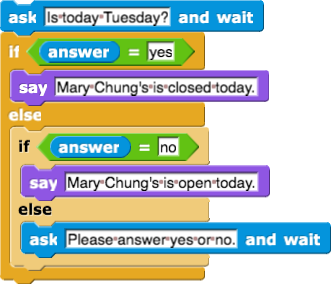
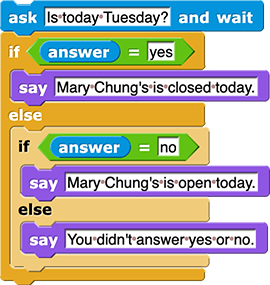
U2 - resolving comments and pacing with Brian

diff --git a/cur/teaching-guide/U2/lab-pages/5-copyrights.html b/cur/teaching-guide/U2/lab-pages/5-copyrights.html
@@ -9,15 +9,16 @@
 
 	<body>
         <h2>Lab 5: Copyrights</h2>
-        <div class="todo">Do we need this commented out text? --MF, 5/27/20</div>
- <!--       <p>Software patents are controversial. In the US, software was generally not patentable until a 1981 Supreme Court decision. Students explore what it means to invent something, and why software might or might not be considered differently from machinery. The simultaneous invention of the telephone by several people is used as an example to debunk the apple-on-head, flash-of-insight myth.</p>   -->
+        <div class="todo">
+            <p>Brian wants to reintegrate this as a new lab one day (maybe an optional lab). --MF, 5/31/20</p>
+            <p>Software patents are controversial. In the US, software was generally not patentable until a 1981 Supreme Court decision. Students explore what it means to invent something, and why software might or might not be considered differently from machinery. The simultaneous invention of the telephone by several people is used as an example to debunk the apple-on-head, flash-of-insight myth.</p>
+        </div>
         <p>The digital storage of information makes the marginal cost of a perfect copy zero. In principle, that shouldn't affect the rights of artists, but in practice, many people feel free to copy media both for their own use and to give to friends. When classes are polled on this topic, most or all hands go up  for both "who thinks it's wrong to pirate music or movies" and for "who has pirated music or movies?" This is a springboard into a class discussion of how laws have changed, how artists should be supported, and the use of encryption to enforce copyright.</p>
         <p>It's really important to understand that what's called &quot;copyright&quot; is <em>not</em> a <em>right,</em> like freedom of speech, or even like owning your house. On page 3 of this lab, students read the relevant paragraph from the US Constitution. which makes it clear that copyright has a <em>limited duration, </em>after which the work is supposed to enter the public domain, free for everyone to use. For this reason, we bend over backward not to use the tendentious term &quot;intellectual property,&quot; which suggests a property right. like the right to keep your house or your car.</p>
         <p>It's also really important not to turn this topic into a hectoring of students. &quot;Stop downloading movies illegally!&quot;  We want students to feel empowered as moral agents, not just empowered as programmers.</p> 
 
 
 		<h3>Pacing</h3>
-		<div class="todo">Brian, are all of the pages required in this lab? In this unit? In U1? We have very few skippable pages at this point... --MF, 5/31/20</div>
         <div>
 			The 5 lab pages could be split across 2-3 days (50-100 minutes). Expected times to complete follow:
 			<ul>
@@ -28,19 +29,6 @@
 				<li>15-30 minutes (&lt;1 class period) on <a href="/bjc-r/cur/programming/2-complexity/5-copyrights/5-drm.html?topic=nyc_bjc%2F2-conditionals-abstraction.topic&course=bjc4nyc.html&novideo&noassignment" title="Page 5: Software as Copyright Enforcement">Software as Copyright Enforcement</a></li>
 			</ul>
 		</div>
-        
-        <div class="todo">
-		<div>
-            The 5 lab pages could be split across 2-3 days (<strong>60-120 minutes</strong>). Expected times to complete follow:
-			<ul>
-            	<li>15-30 minutes (&lt;1 class period) on <a href="/bjc-r/cur/programming/2-complexity/5-copyrights/1-copyright.html?topic=nyc_bjc%2F2-conditionals-abstraction.topic&course=bjc4nyc.html&novideo&noassignment" title="Copyright">Copyright</a></li>
-				<li>10-20 minutes (&lt;1 class period) on <a href="/bjc-r/cur/programming/2-complexity/5-copyrights/2-fairuse.html?topic=nyc_bjc%2F2-conditionals-abstraction.topic&course=bjc4nyc.html&novideo&noassignment" title="Fair Use">Fair Use</a></li>
-				<li>5-10 minutes (&lt;1 class period) on <a href="/bjc-r/cur/programming/2-complexity/5-copyrights/3-bargain.html?topic=nyc_bjc%2F2-conditionals-abstraction.topic&course=bjc4nyc.html&novideo&noassignment" title="The Social Bargain">The Social Bargain</a></li>
-				<li>15-30 minutes (&lt;1 class period) on <a href="/bjc-r/cur/programming/2-complexity/5-copyrights/4-digital.html?topic=nyc_bjc%2F2-conditionals-abstraction.topic&course=bjc4nyc.html&novideo&noassignment" title="Copyrights and Computers">Copyrights and Computers</a></li>
-				<li>15-30 minutes (&lt;1 class period) on <a href="/bjc-r/cur/programming/2-complexity/5-copyrights/5-drm.html?topic=nyc_bjc%2F2-conditionals-abstraction.topic&course=bjc4nyc.html&novideo&noassignment" title="Software as Copyright Enforcement">Software as Copyright Enforcement</a></li>
-			</ul>
-        </div>
-        </div>
               
         
         <h3>Prepare</h3>

diff --git a/cur/teaching-guide/U2/lab-pages/3-predicates-game.html b/cur/teaching-guide/U2/lab-pages/3-predicates-game.html
@@ -23,40 +23,17 @@
         
         
 		<h3>Pacing</h3>
-		<div class="todo">BRian, these new estimates are way shorter than before. I know we have changed things, but still, please look closely. Am I crazy? --MF, 5/31/20</div>
         <div>
-			The 6 lab pages could be split across 3-6 days (130-260 minutes). Expected times to complete follow:
+			The 6 lab pages could be split across 4-7 days (140-280 minutes). Expected times to complete follow:
 			<ul>
 				<li>15-30 minutes (&lt;1 class period) on <a href="/bjc-r/cur/programming/2-complexity/3-predicates/1-what-is-predicate.html?topic=nyc_bjc%2F2-conditionals-abstraction.topic&course=bjc4nyc.html&novideo&noassignment" title="Page 1: What's a Predicate?">What's a Predicate?</a></li>
 				<li>25-50 minutes (about 1 class period) on <a href="/bjc-r/cur/programming/2-complexity/3-predicates/2-combining-predicates.html?topic=nyc_bjc%2F2-conditionals-abstraction.topic&course=bjc4nyc.html&novideo&noassignment" title="Page 2: Combining Predicates">Combining Predicates</a></li>
 				<li>20-40 minutes (&lt;1 class period) on <a href="/bjc-r/cur/programming/2-complexity/3-predicates/3-combining-conditionals.html?topic=nyc_bjc%2F2-conditionals-abstraction.topic&course=bjc4nyc.html&novideo&noassignment" title="Page 3: Combining Conditionals">Combining Conditionals</a></li>
-				<li>30-60 minutes (about 1 class period) on <a href="/bjc-r/cur/programming/2-complexity/3-predicates/4-boolean-experiments.html?topic=nyc_bjc%2F2-conditionals-abstraction.topic&course=bjc4nyc.html&novideo&noassignment" title="Page 4: Boolean Expression Experiments">Boolean Expression Experiments</a></li>
+				<li>40-80 minutes (about 1 class period) on <a href="/bjc-r/cur/programming/2-complexity/3-predicates/4-boolean-experiments.html?topic=nyc_bjc%2F2-conditionals-abstraction.topic&course=bjc4nyc.html&novideo&noassignment" title="Page 4: Boolean Expression Experiments">Boolean Expression Experiments</a></li>
 				<li>15-30 minutes (&lt;1 class period) on <a href="/bjc-r/cur/programming/2-complexity/3-predicates/5-keeping-list-items.html?topic=nyc_bjc%2F2-conditionals-abstraction.topic&course=bjc4nyc.html&novideo&noassignment" title="Page 5: Keeping Items from a List"><code>Keep</code>ing Items from a List</a></li>
 				<li>25-50 minutes (about 1 class period) on <a href="/bjc-r/cur/programming/2-complexity/3-predicates/6-solving-word-puzzle.html?topic=nyc_bjc%2F2-conditionals-abstraction.topic&course=bjc4nyc.html&novideo&noassignment" title="Page 6: Solving a Word Puzzle">Solving a Word Puzzle</a></li>
 			</ul>
 		</div>
-        
-        <div class="todo">
-		<div>
-			The 5 lab pages could be split across 4-8 days (<strong>165-330 minutes</strong>). Expected times to complete follow:
-			<ul>
-				<li>40-80 minutes (1-2 class periods) on <a href="/bjc-r/cur/programming/2-complexity/3-predicates/1-what-is-predicate.html?topic=nyc_bjc%2F2-conditionals-abstraction.topic&course=bjc4nyc.html&novideo&noassignment" title="What's a Predicate?">What's a Predicate?</a></li>
-				<li>40-80 minutes (1-2 class periods) on <a href="/bjc-r/cur/programming/2-complexity/3-predicates/2-combining-predicates.html?topic=nyc_bjc%2F2-conditionals-abstraction.topic&course=bjc4nyc.html&novideo&noassignment" title="Combining Predicates">Combining Predicates</a></li>
-				<li>?? minutes (1-2 class periods) on Combining Conditionals</li>
-			  <li>25-50 minutes (about 1 class period) on <a href="/bjc-r/cur/programming/2-complexity/3-predicates/4-boolean-experiments.html?topic=nyc_bjc%2F2-conditionals-abstraction.topic&course=bjc4nyc.html&novideo&noassignment" title="Boolean Expression Experiments">Boolean Expression Experiments</a></li>
-				<li>20-40 minutes (less than 1 class period) on <a href="/bjc-r/cur/programming/2-complexity/3-predicates/5-keeping-list-items.html?topic=nyc_bjc%2F2-conditionals-abstraction.topic&course=bjc4nyc.html&novideo&noassignment" title="Keeping Items from a List"><code>Keep</code>ing Items from a List</a></li>
-				<li>40-80 minutes (1-2 class periods) on <a href="/bjc-r/cur/programming/2-complexity/3-predicates/6-solving-word-puzzle.html?topic=nyc_bjc%2F2-conditionals-abstraction.topic&course=bjc4nyc.html&novideo&noassignment" title="Solving a Word Puzzle">Solving a Word Puzzle</a></li>
-			</ul>
-		</div>
-        </div>
-
-
-		<!--<h3>Prepare</h3>
-		<div>
-			<ul>
-				<li></li>
-			</ul>
-		</div>-->
 
 
 		<h3>Lab Pages</h3>

diff --git a/cur/teaching-guide/U2/lab-pages/4-making-computers-do-math.html b/cur/teaching-guide/U2/lab-pages/4-making-computers-do-math.html
@@ -9,43 +9,26 @@
 
 	<body>
 		<h2>Lab 4: Making Computers Do Math</h2>
-		<p>This lab doesn't have an overarching project; it's a collection of different techniques involving functions. The most important ideas, one per page, in order:       	</p>
-        <ol>
-		<li>the <code>mod</code> (remainder) function</li>
-		<li>Snap<em>!</em>'s &quot;export blocks&quot; feature to make libraries</li>
-		<li>the higher order function <code>combine</code></li></ol>
-            
+		<p>
+            This lab doesn't have an overarching project; it's a collection of different techniques involving functions. The most important ideas, one per page, in order:
+            <ol>
+                <li>The <code>mod</code> (remainder) function</li>
+                <li>Snap<em>!</em>'s &quot;export blocks&quot; feature to make libraries</li>
+                <li>The higher order function <code>combine</code></li>
+            </ol>
+        </p>
 		<p>By the way, the use of language in which &quot;do math&quot; includes arithmetic functions but not Boolean functions comes from the AP CSP Framework. We do know that logic is part of math!</p>
 		
         
         <h3>Pacing</h3>
 		<div>
-			The 3 lab pages could be split across 2-3 days (65-130 minutes). Expected times to complete follow:
+			The 3 lab pages could be split across 2-3 days (60-120 minutes). Expected times to complete follow:
 			<ul>
 				<li>20-40 minutes (&lt;1 class period) on <a href="/bjc-r/cur/programming/2-complexity/4-making-computers-do-math/1-mod-operator.html?topic=nyc_bjc%2F2-conditionals-abstraction.topic&course=bjc4nyc.html&novideo&noassignment" title="Page 1: The Mod Operator">The <code>Mod</code> Operator</a></li>
-				<li>25-50 minutes (about 1 class period) on <a href="/bjc-r/cur/programming/2-complexity/4-making-computers-do-math/2-math-predicates.html?topic=nyc_bjc%2F2-conditionals-abstraction.topic&course=bjc4nyc.html&novideo&noassignment" title="Page 2: Making a Mathematical Library">Making a Mathematical Library</a></li>
+				<li>20-40 minutes (&lt;1 class period) on <a href="/bjc-r/cur/programming/2-complexity/4-making-computers-do-math/2-math-predicates.html?topic=nyc_bjc%2F2-conditionals-abstraction.topic&course=bjc4nyc.html&novideo&noassignment" title="Page 2: Making a Mathematical Library">Making a Mathematical Library</a></li>
 				<li>20-40 minutes (&lt;1 class period) on <a href="/bjc-r/cur/programming/2-complexity/4-making-computers-do-math/3-other-math-reporters.html?topic=nyc_bjc%2F2-conditionals-abstraction.topic&course=bjc4nyc.html&novideo&noassignment" title="Page 3: More Mathematical Reporters">More Mathematical Reporters</a></li>
 			</ul>
 		</div>
-        
-        <div class="todo">
-		<div>
-			The 3 required lab pages could be split across 2-4 days (<strong>70-140 minutes</strong>). Expected times to complete follow:
-            <ul>                
-                <li>25-50 minutes (&lt;1 class period) on <a href="/bjc-r/cur/programming/2-complexity/4-making-computers-do-math/1-mod-operator.html?topic=nyc_bjc%2F2-conditionals-abstraction.topic&course=bjc4nyc.html&novideo&noassignment" title="The Mod Operator">The <code>Mod</code> Operator</a></li>
-				<li>25-50 minutes (&lt;1 class period) on <a href="/bjc-r/cur/programming/2-complexity/4-making-computers-do-math/2-math-predicates.html?topic=nyc_bjc%2F2-conditionals-abstraction.topic&course=bjc4nyc.html&novideo&noassignment" title="Making a Mathematical Library">Making a Mathematical Library</a></li>
-				<li>20-40 minutes (&lt;1 class period) on <a href="/bjc-r/cur/programming/2-complexity/4-making-computers-do-math/3-other-math-reporters.html?topic=nyc_bjc%2F2-conditionals-abstraction.topic&course=bjc4nyc.html&novideo&noassignment" title="More Mathematical Reporters">More Mathematical Reporters</a></li>
-			</ul>
-		</div>
-        </div>
-
-
-		<!--<h3>Prepare</h3>
-		<div>
-			<ul>
-				<li></li>
-			</ul>
-		</div>-->
 
 
 		<h3>Lab Pages</h3>

diff --git a/cur/teaching-guide/U2/lab-pages/2-data-art.html b/cur/teaching-guide/U2/lab-pages/2-data-art.html
@@ -25,24 +25,13 @@
                 
         <h3>Pacing</h3>
 		<div>
-			The 3 lab pages could be split across 2-3 days (65-130 minutes). Expected times to complete follow:
+			The 3 lab pages could be split across 2-4 days (75-150 minutes). Expected times to complete follow:
 			<ul>
 				<li>25-50 minutes (about 1 class period) on <a href="/bjc-r/cur/programming/2-complexity/2-data-structures-art/1-shopping-list-app.html?topic=nyc_bjc%2F2-conditionals-abstraction.topic&course=bjc4nyc.html&novideo&noassignment" title="Page 1: Shopping List App">Shopping List App</a></li>
 				<li>20-40 minutes (&lt;1 class period) on <a href="/bjc-r/cur/programming/2-complexity/2-data-structures-art/2-quizzes.html?topic=nyc_bjc%2F2-conditionals-abstraction.topic&course=bjc4nyc.html&novideo&noassignment" title="Page 2: Planning a Quiz App">Planning a Quiz App</a></li>
-				<li>20-40 minutes (&lt;1 class period) on <a href="/bjc-r/cur/programming/2-complexity/2-data-structures-art/3-traversing-list.html?topic=nyc_bjc%2F2-conditionals-abstraction.topic&course=bjc4nyc.html&novideo&noassignment" title="Page 3: Checking Each Quiz Answer">Checking Each Quiz Answer</a></li>
+				<li>30-60 minutes (about 1 class period) on <a href="/bjc-r/cur/programming/2-complexity/2-data-structures-art/3-traversing-list.html?topic=nyc_bjc%2F2-conditionals-abstraction.topic&course=bjc4nyc.html&novideo&noassignment" title="Page 3: Checking Each Quiz Answer">Checking Each Quiz Answer</a></li>
 			</ul>
 		</div>
-        
-        <div class="todo">
-		<div>
-			The 3 lab pages could be split across 3-5 days (<strong>105-210 minutes</strong>). Expected times to complete follow:
-			  <ul>
-				<li>15-30 minutes (&lt; 1 class period) on Shopping List App</li>
-				<li>20-40 minutes (&lt; 1 class period) on Planning a Quiz App</li>
-				<li>30-60 minutes (about 1 class period) on Checking Each Quiz Answer</li>
-			</ul>
-		</div>
-        </div>
         
         <h3>Lab Pages</h3>
 		<div>

diff --git a/cur/teaching-guide/U2/lab-pages/1-variables-games.html b/cur/teaching-guide/U2/lab-pages/1-variables-games.html
@@ -36,19 +36,6 @@
 			</ul>
 		</div>
         
-        <div class="todo">
-		<div>
-			The 5 lab pages could be split across 3-5 days (<strong>105-210 minutes</strong>). Expected times to complete follow:
-			  <ul>
-				<li>15-30 minutes (&lt; 1 class period) on <a href="/bjc-r/cur/programming/2-complexity/1-variables-games/1-number-guessing-game.html?topic=nyc_bjc%2F2-conditionals-abstraction.topic&course=bjc4nyc.html&novideo&noassignment" title="Starting a Number Guessing Game">Starting a Number Guessing Game</a></li>
-				<li>20-40 minutes (&lt; 1 class period) on <a href="/bjc-r/cur/programming/2-complexity/1-variables-games/2-checking-player-guess.html?topic=nyc_bjc%2F2-conditionals-abstraction.topic&course=bjc4nyc.html&novideo&noassignment" title="Checking the Player's Guess">Checking the Player's Guess</a></li>
-				<li>30-60 minutes (about 1 class period) on <a href="/bjc-r/cur/programming/2-complexity/1-variables-games/3-debugging-extending.html?topic=nyc_bjc%2F2-conditionals-abstraction.topic&course=bjc4nyc.html&novideo&noassignment" title="Debugging and Extending Your Number Guessing Game">Debugging and Extending Your Number Guessing Game</a></li>
-				<li>20-40 minutes (about 1 class period) on <a href="/bjc-r/cur/programming/2-complexity/1-variables-games/4-keeping-score.html?topic=nyc_bjc%2F2-conditionals-abstraction.topic&course=bjc4nyc.html&novideo&noassignment" title="Keeping Score with Global Variables">Keeping Score with Global Variables</a></li>
-				<li>20-40 minutes (about 1 class period) on <a href="/bjc-r/cur/programming/2-complexity/1-variables-games/old/4-importing-exporting.html?topic=nyc_bjc%2F2-conditionals-abstraction.topic&course=bjc4nyc.html&novideo&noassignment" title="Importing Greet Player into Another Program">Choosing a Costume</a></li>
-			</ul>
-		</div>
-        </div>
-        
         <h3>Lab Pages</h3>
 		<div>
 			<ul>

diff --git a/cur/programming/2-complexity/3-predicates/3-combining-conditionals.html b/cur/programming/2-complexity/3-predicates/3-combining-conditionals.html
@@ -38,7 +38,7 @@
         <p>Look back at the first two examples in the previous problem. Since the predicate expression <var>a</var> <code>=</code> <var>b</var> will report true when they are equal and false otherwise, it's unnecessary to use the nested conditional statement in the first example, and the second example using the predicate inside the <code>else</code> part is sufficient. Sometimes, however (especially when you aren't building a predicate), it can be helpful to use nested conditional statements.</p>
         <div class="vocabFullWidth">
             <div class="comment">AAP-2.I.1, AAP-2.I.2</div>
-            <p>A <strong>nested conditional statement</strong> is an <code>if<h1></h1></code> or <code>if else</code> statement inside the <code>else</code> part of another <code>if else</code> statement. If the predicate of the outer <code>if else</code> statement is false, then inner (nested) conditional statement will test its predicate and decide what to do.</p>
+            <p>A <strong>nested conditional statement</strong> is an <code>if</code> or <code>if else</code> statement inside the <code>else</code> part of another <code>if else</code> statement. If the predicate of the outer <code>if else</code> statement is false, then inner (nested) conditional statement will test its predicate and decide what to do.</p>
         </div>
         <div class="forYouToDo">
 			<ol start="2">
@@ -58,7 +58,7 @@ else
     }
     else
     {
-        ask (Please answer yes or no.) and wait
+        say (You didn't answer yes or no.)
     }
 }" title="ask (Is today Tuesday?) and wait
 if (answer = 'yes')
@@ -71,7 +71,7 @@ if (answer = 'yes')
     {
         say (Mary Chung's is open today.)
     } else {
-        ask (Please answer yes or no.) and wait
+        say (You didn't answer yes or no.)
     }
 }" />
                 </li>

diff --git a/cur/programming/2-complexity/3-predicates/1-what-is-predicate.html b/cur/programming/2-complexity/3-predicates/1-what-is-predicate.html
@@ -32,7 +32,7 @@
                 Along with &quot;abstraction,&quot; these two ideas are among the most important in computer science. If you get in the habit of using them in your thinking, you'll have many fewer bugs in your programs, because you'll automatically double-check that the output-type of a reporter matches the input-type of the block in which you're trying to use it.
             </p>
         </div>
-        <p>Predicates ask a question such as "Is the random number 3?" or "Is this sprite touching the sprite called 'Leader'?"</p>
+        <p>Predicates ask a true/false question such as "Is the random number 3?" or "Is this sprite touching the sprite called 'Leader'?"</p>
         <p>
     Every <code>if else</code> block has two scripts inside of it, exactly one of which will be run depending on the value that the predicate reports. Then the computer continues with whatever comes after the <code>if else</code> block.<br />
             <a href="/bjc-r/cur/programming/1-introduction/2-gossip-and-greet/5-if-else.html?topic=nyc_bjc%2F1-intro-loops.topic&course=bjc4nyc.html&novideo&noassignment"><img class="indent" src="/bjc-r/img/2-complexity/more-complicated-who-conditional.png" alt="if (pick random (1) to (4)) = (3) {

diff --git a/cur/programming/2-complexity/4-making-computers-do-math/3-other-math-reporters.html b/cur/programming/2-complexity/4-making-computers-do-math/3-other-math-reporters.html
@@ -8,6 +8,7 @@
 
     <body>
 		<h2>More Mathematical Reporters</h2>
+        <div class="todo">This page COMBINE WITH (function) ITEMS OF (list), but Snap! has COMBINE (list) USING (function).</div>
         <div class="learn">
             <strong>In this project</strong>, you will create mathematical blocks that combine several numbers, such as how <code>sum from () to ()</code> combines two numbers using addition: <br />
             <img class="indent" src="/bjc-r/img/3-lists/sum-from-4-to-6-reporting.png" alt="sum from (4) to (6) reporting 15" title="sum from (4) to (6) reporting 15" />

diff --git a/cur/programming/2-complexity/3-predicates/4-boolean-experiments.html b/cur/programming/2-complexity/3-predicates/4-boolean-experiments.html
@@ -11,7 +11,6 @@
 
 	<body>
         <h2>Boolean Expression Experiments</h2>
-        <div class="todo">is COMBINE.  2.4.3 has COMBINE WITH (function) ITEMS OF (list). Snap! has COMBINE (list) USING (function).</div>
         <div class="learn">
             <p><strong>On this page,</strong> you will match Boolean expressions with the pictures they help create.</p>
         </div>
